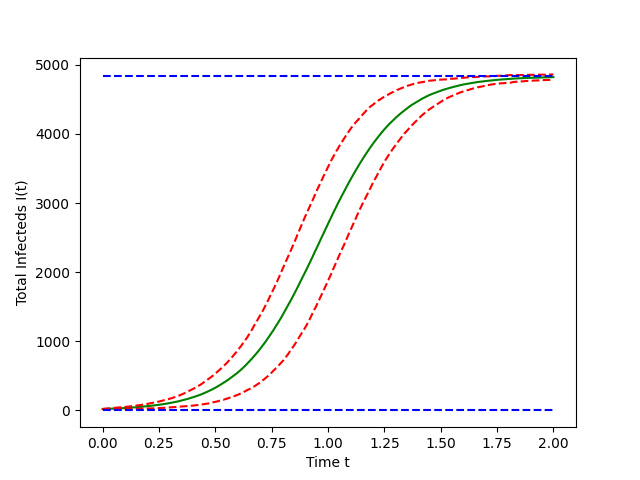
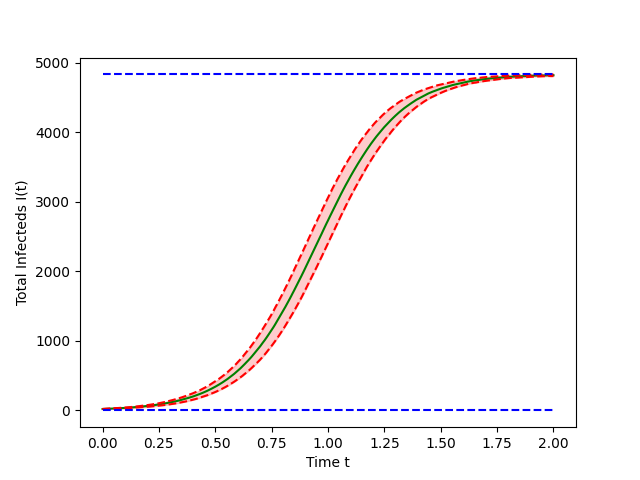
Add degrees, add conclusion

diff --git a/report/templated_draft.tex b/report/templated_draft.tex
@@ -260,7 +260,7 @@ Throughout human history, disease has been a constant threat to health and happi
 
 The original work in the field of mathematical disease modelling was done in 1927, by Kermack and McKendrick \citep{kermackContributionMathematicalTheory1927}, where they introduced the concept of a compartmental model, in which the population of concern is split into several compartments. They primarily examined what became known as the SIR model, where individuals are considered to either be Susceptible, Infected, or Removed (either through recovery or death). In this model, only Susceptible people can be infected, and only Infected people can be removed - there is also no movement back into the Susceptible compartment. Once an individual has had the disease, they are either dead, or immune for life. This model is applicable to a large number of diseases that were of great concern at the time, such as measels, polio, or diptheria. However, in the present day UK, where most people are vaccinated against these diseases \citep{ukhsaVaccinationCoverageStatistics}, we are more interested in diseases from which we only develop temporary immunity, or those from which no immunity is gained at all. In this project, we focus on the related, but more simple SIS model, where individuals are either Susceptible or Infected. Like in the SIR model, only Susceptible individuals can be infected, but we also allow infected individuals to recover, without immunity, and become Susceptible again. This is a good model for several common diseases against which no immunity is developed, such as Gonorrhea or Syphillis. This model is also a good starting point to develop the machinery for a more complex future model, as it can easily be extended to have more compartments, or to introduce the effects of social distancing and other measures, as in \citet{croccoloSpreadingInfectionsRandom2020}.
 
-Another departure we make from the original work of Kermack and McKendrick is to consider discrete populations, where they considered the populations to be continuous. This means we can no longer use the machinery of ODEs that they utilise, and so we must choose another method of modelling this discrete process. A natural way to do this is by treating the individuals in different compartments as different chemical species, and the transitions between compartments as chemical reactions. This allows us to leverage a large amount of machinery developed for these kinds of discrete stochastic processes.
+Another departure we make from the original work of Kermack and McKendrick is to consider discrete populations, where they considered the populations to be continuous. This means we can no longer use the machinery of ODEs that they utilise, and so we must choose another method of modelling this discrete process. A natural way to do this is by treating the individuals in different compartments as different chemical species, and the transitions between compartments as chemical reactions. This allows us to leverage a large amount of machinery developed for these kinds of discrete stochastic processes, the vast majority of which is described in \citep{erbanStochasticModellingReaction2019}.
 
 We first focus on a model with no spatial variation, this is equivalent to thinking of our individuals (which we are treating as chemicals) as being well-mixed, and so we refer to this as the well-mixed model. We then examine two ways of introducing spatial structure using networks. First, we analyse the system on simple graphs, with a relatively large population on each node. This is known as the metapopulation model, and each of the nodes can be thought of as representing a town or village in this model, which are themselves well-mixed. Second, we look at several models for networks of individuals, where each node of the network represents an individual person. This is referred to as the individual model. Finally, we look at the behaviour of the model on a real social network, utilising the SNAP dataset \citep{snapnets} to simulate the individual model on a network of Facebok users and their friends.
 
@@ -336,6 +336,8 @@ We can also perform a linear stability analysis to predict the expected behaviou
 	\caption{A plot of the mean $\pm 1$ standard deviation of $20$ realisations of the Gillespie SSA, with parameters $k_I = 0.002$, $k_S = 0.1$, $N = 500$. The dotted blue line is the deterministic solution to the mass action approximation. We see that it is higher than the simulation average, as some of the simulations hit the extinction solution, and stay at $0$, lowering the average.}
 	\label{fig:SISmix}
 \end{figure}
+
+To gain more accurate insight into the true behaviour of our discrete model, rather than focusing on the continuous approximation given to us by the principle of mass-action, we leverage the tools of the Chemical Master Equation (CME).
 
 \section{The Chemical Master Equation and Probability Generating Function}
 
@@ -487,7 +489,7 @@ We can solve this system numerically, using VisualPDE \citep{walkerVisualPDERapi
 	\mathrm{Var} [I(t)] = \left( \pdd {} {x} G(x, t) + \pd {} {x} G(x, t) - \left( \pd {} {x} G(x, t) \right)^2 \right) \Big|_{x = 1}.
 \end{equation}
 
-We in fact see in the numerical solution, tracking these expressions over time, that the mean rises as we would expect, before levelling off. We also see the variance drop rapidly to a very low value, showing that we expect the solutions to rapidly converge towards an equilibrium. This is an excellent result, as we do not get the blowing up that we had when trying to use the moment closure earlier.
+We in fact see in the numerical solution, tracking these expressions over time, that the mean rises as we would expect, before levelling off. We also see the variance drop rapidly to a very low value, showing that we expect the solutions to rapidly converge towards an equilibrium. This is an excellent result, as we do not get the blowing up that we had when trying to use the moment closure earlier. However, it tells us little about the eventual long-term behaviour of the system. For that, we examine the stationary distribution.
 
 \section{The Stationary Distribution}
 
@@ -521,6 +523,8 @@ We can also consider the recovery-free (SI) model, by setting $k_S - 0$. This gi
 \end{equation}
 
 Now setting $n = 0$ gives $\phi(0) = 0$, as we would expect. In fact, it follows that all $\phi(n) = 0$, for all $n < N$. For $n = N$, the steady-state CME gives us no information, but again using $\sum_{k = 0}^N \phi(k) = 1$, we see that $\phi(N) = 1$. Again this makes sense, as with no recovery, we expect the whole population to become infected.
+
+These results make sense, however they do not align with what we see in simulations, as our simulations always stop in finite time, where the chance of a given realisation reaching extinction is generally low. In order to better analyse the system and find an approximation of a finite-time stationary distribution, we leverage the tools of Stochastic Differential Equations.
 
 \section{Stochastic Differential Equation Approach, and Finite-Time Stationary Distribution Approximation}
 
@@ -1036,7 +1040,7 @@ We now simulate the different networks in the regime where extinction is stable,
 		\caption{Supercritical $S_4$}
 		\label{fig:SISmetaS4sup}
 	\end{subfigure}
-	\caption{Means with $\pm 3$ standard deviations of $100$ simulations of the metapopulation SIS model on various graphs, with both supercritical and subcritical parameter values. As expected, in all of the supercritical simulations, the trajectories tend to an endemic equilibrium. In the subcritical cases, the trajectories all go to the extinction equilibrium, as we would again expect. The blue dotted lines, where shown, give the endemic and extinction equilibria, the endemic equilibria calculated as the homogeneous equilibria given by \ref{metaHomEq}. This shows good agreement between the simulation mean and the prediceted homogeneous equilibrium. All of the supercritical scenarios show a logistic-like growth, though the rates differ between the various graph structures.}
+	\caption{Means with $\pm 1$ standard deviation of $80$ simulations of the metapopulation SIS model on various graphs, with both supercritical and subcritical parameter values. As expected, in all of the supercritical simulations, the trajectories tend to an endemic equilibrium. In the subcritical cases, the trajectories all go to the extinction equilibrium, as we would again expect. The blue dotted lines, where shown, give the endemic and extinction equilibria, the endemic equilibria calculated as the homogeneous equilibria given by \ref{metaHomEq}. This shows good agreement between the simulation mean and the predicted homogeneous equilibrium. All of the supercritical scenarios show a logistic-like growth, though the rates differ between the various graph structures.}
 	\label{figs:SISmeta}
 \end{figure}
 
@@ -1182,7 +1186,7 @@ We now simulate the infection on a variety of graph structures. We begin with a 
 		\caption{$\mathrm{Barbell}(249, 2)$}
 		\label{fig:SISindvbar}
 	\end{subfigure}
-	\caption{A collection of simulations on various simple and composite graphs. \ref{fig:SISindvcycle} shows the mean $\pm 1$ standard deviation of $20$ realisations on the cycle graph with $500$ nodes, $C_{500}$. This demonstrates how the graph structure significantly impacts the spreading behaviour, as there is a clear linear trend, due to the structure preventing most nodes from being exposed to the disease for a long period of time. This also results in the disease taking much longer to spread. The parameters used were $k_I = 0.7$, $k_S = 0.1$. This is also of note, as for significantly smaller ratios of $k_I$ to $k_S$, the disease became extinct extremely rapidly. \ref{fig:SISindvtadpole} shows the mean $\pm 3$ standard deviations $20$ realisations on the $\mathrm{tadpole}(300, 200)$ graph, the graph of $C_{300}$ connected to $P_{200}$, using the same parameters. This again demonstrates a generally linear growth. However, the growth here is faster. This is because, for the majority of the time, the growth is effectively along three branches, rather than effectively along two. \ref{fig:SISindvloll} shows the mean $\pm 3$ standard deviations of $20$ realisations on the lollipop graph, made up of the complete graph $K_{300}$ connected to the path graph $P_{200}$, using the same parameters again. This shows a very sharp rise at the start, as the high rate of infection causes the disease to rapidly spread through the highly connected portion of the graph. However, the growth slows down massively as the disease spreads roughly linearly along the path section of the graph. \ref{fig:SISindvbar} demonstrates this behaviour in a more extreme case, showing $20$ realisations on the Barbell graph made up of two copies of the complete graph $k_{249}$ connected by the path graph $P_{2}$. The disease rapidly spreads through the large connected populations, but takes much longer to spread along the path between them. However, once the disease reaches the second connected population, it again spreads extremely rapidly, giving this step effect. The parameters used for this graph were $k_I = 0.7$, $k_S = 0.1$. Here, traces are shown, as they are more informative than the mean and standard deviations, and show the interesting behaviour of very different times to jump from one highly connected portion of the graph to the other.}
+	\caption{A collection of simulations on various simple and composite graphs. \ref{fig:SISindvcycle} shows the mean $\pm 1$ standard deviation of $20$ realisations on the cycle graph with $500$ nodes, $C_{500}$. The parameters used were $k_I = 0.7$, $k_S = 0.1$. \ref{fig:SISindvtadpole} shows the mean $\pm 1$ standard deviation of $20$ realisations on the $\mathrm{tadpole}(300, 200)$ graph, the graph of $C_{300}$ connected to $P_{200}$, using the same parameters. \ref{fig:SISindvloll} shows the mean $\pm 1$ standard deviation of $20$ realisations on the lollipop graph, made up of the complete graph $K_{300}$ connected to the path graph $P_{200}$, using the same parameters again. The rapid rise at the start is the disease spreading through the complete subgraph, as we would expect. \ref{fig:SISindvbar} demonstrates this behaviour in a more extreme case, showing $20$ realisations on the Barbell graph made up of two copies of the complete graph $k_{249}$ connected by the path graph $P_{2}$. The parameters used for this graph were $k_I = 0.7$, $k_S = 0.1$. Here, traces are shown, as they are more informative than the mean and standard deviations, and show the interesting behaviour of very different times to jump from one highly connected portion of the graph to the other between different realisations.}
 	\label{figs:SISindvsimp}
 \end{figure}
 
@@ -1348,7 +1352,37 @@ These different kinds of random graphs exhibit a variety of interesting properti
 
 \section{The Facebook Network}
 
-We finally move onto analysing the disease spread on a real social network, the Facebook network from the SNAP dataset \citet{snapnets}. This is a network of $4039$ Facebook users, and the connections between them. The average clustering coefficient of this network is $0.6055$, and the degree distribution is shown in [[FIGURE HERE]], and [[COMPARE TO OTHERS]]. Running the simulation for a variety of parameter values yields the following plots.
+We finally move onto analysing the disease spread on a real social network, the Facebook network from the SNAP dataset \citet{snapnets}. This is a network of $4039$ Facebook users, and the connections between them. The degree distribution is shown alongside the other random network models examined previously in \ref{figs:degcomp}. We clearly see the previously stated power-law degree distribution, and how well the different network models emulate this. As the network is extremely large, it is very difficult to do any further advanced analysis. Running the simulation for a variety of parameter values yields the plots \ref{figs:SISindvFB}.
+
+\begin{figure}
+        \centering
+        \begin{subfigure}[t]{0.45\textwidth}
+                \centering
+                \includegraphics[width=\textwidth]{figs/degER.png}
+                \caption{Erdos-Renyi}
+                \label{fig:degER}
+        \end{subfigure}
+        \begin{subfigure}[t]{0.45\textwidth}
+                \centering
+                \includegraphics[width=\textwidth]{figs/degBA.png}
+                \caption{Barabasi-Albert}
+                \label{fig:degBA}
+        \end{subfigure}
+        \begin{subfigure}[b]{0.45\textwidth}
+                \centering
+                \includegraphics[width=\textwidth]{figs/degWS.png}
+                \caption{Watts-Strogatz}
+                \label{fig:degWS}
+        \end{subfigure}
+        \begin{subfigure}[b]{0.45\textwidth}
+                \centering
+                \includegraphics[width=\textwidth]{figs/degFB.png}
+                \caption{Facebook}
+                \label{fig:degFB}
+        \end{subfigure}
+        \caption{These figures show the degree distributions of the three random graph models, alongside the degree distribution of the facebook network from the SNAP dataset. We can clearly see that the Erdos-Renyi and Watts-Strogatz network models do not give a power-law distribution, instead giving something more akin to a normal distribution for the degrees of the nodes. The Barabasi-Albert model does clearly give a power law distribution, as it is designed to. We can also clearly see that the real-life social network of the facebook graph shows a degree distribution which approximately follows a power law.}
+        \label{figs:degcomp}
+\end{figure}
 
 \begin{figure}[h]
 	\centering
@@ -1383,6 +1417,12 @@ We finally move onto analysing the disease spread on a real social network, the 
 We again see the behaviour we have learnt to expect from our analysis and previous simulations, where as we increase the value of $k_S$, the system experiences a form of criticality, where below some critical value, the number of infected individuals tends to some endmic equilibrium, for values around that critical value they either hit the extinction equilibrium, or remain low, and for values greater than the critical value, the simulations invariably hit the extinction equilibrium.
 
 We also see that all of the other random network models seem to do a poor job of approximating the behaviour of the model on a real social network. Somewhat surprisingly, we find that a critical percolation network is actually the most similar in behaviour to the facebook network. We also once again see that the structure of the networks has a large impact on the exact dynamics of the disease spread, particularly affecting the rate at which the disease propogates across the graph. However, it is apparent that the greatest impact on the overall long-term behaviour is from the exact parameters used, specifically the ratio between infection and recovery rates. We see that in all cases, if the recovery rate is sufficiently high relative to the infection rate, the disease will invariably become extinct. This may be useful to inform public health policy, as it shows that the most effective means to reduce the impact of an epidemic is to lower the rate of infection (for example, through better hand washing and sanitation), or to increase the rate of recovery (by developing better treatments, or screening greater numbers of people to be able to start treatment earlier).
+
+This model of the spread of a disease between individuals grants us useful insight into how a disease may spread through a small interconnected population, such as within a town, village, school, or workplace. We see that most of the models of social networks actually do a relatively poor job of replicating the behaviour of the disease on a real social network, and we in fact see that the expected logistic curve of a well-mixed model proves inaccurate at this scale. This is useful in any future attempts to build more complex models, including metapopulation models, as we see that the spread of the disease within the nodes of such a model must be given by more complex behaviour than the usual logistic growth that is assumed.
+
+\chapter{Conclusion}
+
+In this report, we began by examining a very simple chemical model of disease with no spatial component, to see what factors affected the behaviour of the disease spread, and to observe the stable points of the model. In doing so we devloped a series of useful tools, including a Stochastic Differential Equation (SDE) approximation of the system. We then expanded this to a metapopulation model, introducing spatial variation through the use of networks. This allowed us to model the spread of a disease between communities, and to observe how the level of connection between communities affected the rate of spread. From this we have gained useful insight into how public health policy can seek to lessen the spread and impact of an epidemic by reducing interconnection between communities, for example by social distancing, or reducing transmission rates between otherwise separate communities through other means (such as mask wearing, or restricting contact through other means). We also examined the stable equilibria of a continuous approximation on these networks, and showed there exists a critical threshold above which the epidemic will tend to an endemic stable point, and below which it will rapidly die off to extinction. We then looked at a model of disease spread on more complex networks, intended to simulate small communities, to see how the disease spreads at these scales. We examined some simple networks, some common models of random networks often used to model social networks, and a real-life social network of facebook users. We found that all of the common random network models struggled to adequately capture the behaviour of the epidemic on a real social network, and examined the ways in which they differed. We also observed the effect of network criticality, in the case of the percolation network model, on the tipping points for the epidemic. On every network we examined, we found that there could be two major regimes of the disease model. In one, the disease rapidly dies out and becomes extinct. In the other, the disease spreads throughout the population until an endemic stable point is reached. The greatest impact on this was always the ratio of recovery rate to infection rate, showing us that the most effective way to reduce the impact of an epidemic remains to either reduce infectivity (through sanitation, hand washing, mask wearing, etc), or to promote faster recovery (through effective treatment, ensuring adequate nutrition, early identification of infection, etc). In this process, we developed a small amount of Python code which can be used to simulate a variety of disease models on networks, and which could trivially be extended to simulate more complex models, such as models with more compartments (SIR, SEIR, MSIRS etc), models with immune individuals, and models with time-evolving parameters. The code developed could even be extended to allow dynamic construction and destruction of edges on the networks, which could be used as in \citep{croccoloSpreadingInfectionsRandom2020} to examine the effect of lockdowns or other similar public health measures.
 
 \bibliography{mybib.bib}
 

diff --git a/graphs_python/SIS_metapop_disc.py b/graphs_python/SIS_metapop_disc.py
@@ -165,65 +165,66 @@ def draw_graph(G, I, N, colours=plt.cm.viridis):
                      vmin=0, vmax=1, cmap=plt.cm.plasma)
     plt.show()
 
+if __name__ == "__main__":
+    G = nx.cycle_graph(5)
+    Ii = np.zeros(5)
+    Ni = np.array([1000, 1000, 1000, 1000, 1000])
+    Ii[0] = 20
 
-G = nx.complete_graph(5)
-Ii = np.zeros(5)
-Ni = np.array([1000, 1000, 1000, 1000, 1000])
-Ii[0] = 20
+    iters = 80
+    END = 1.5
+    k_I = 0.002
+    k_S = 20
 
-iters = 100
-END = 2
-k_I = 0.002
-k_S = 0.2
+    tcollect = []
+    Icollect = []
+    conns = []
+    processes = []
 
-tcollect = []
-Icollect = []
-conns = []
-processes = []
+    for i in range(iters):
+        par_conn, child_conn = Pipe()
+        process = Process(target=mult_Gillespie, args=(
+            G, Ii, Ni, k_I, k_S, child_conn, END, 0.1, False,))
+        processes.append(process)
+        conns.append(par_conn)
+        process.start()
 
-for i in range(iters):
-    par_conn, child_conn = Pipe()
-    process = Process(target=mult_Gillespie, args=(
-        G, Ii, Ni, k_I, k_S, child_conn, END, 0.1, False,))
-    processes.append(process)
-    conns.append(par_conn)
-    process.start()
+    for conn in conns:
+        ts, Is = conn.recv()
+        tcollect.append(ts)
+        Icollect.append(Is)
 
-for conn in conns:
-    ts, Is = conn.recv()
-    tcollect.append(ts)
-    Icollect.append(Is)
+    for proc in processes:
+        proc.join()
 
-for proc in processes:
-    proc.join()
-
-# for i in range(iters):
-#     plt.plot(tcollect[i], Icollect[i], '--')
-
-
-# GRID
-tgrid = np.arange(0, END, END/(np.sum(Ni)*4))
-Igrid = []
-for i in range(iters):
-    Igrid.append(griddify(np.array(tcollect[i]), tgrid, np.array(Icollect[i])))
-
-Igrida = np.array(Igrid)
-avs = np.sum(Igrida, 0)/iters
-sds = np.sqrt(np.sum(Igrida**2, 0)/iters - avs**2)
-
-plt.plot(tgrid, avs, "g")
-plt.plot(tgrid, avs + 3*sds, "--r")
-plt.plot(tgrid, avs - 3*sds, "--r")
+    # for i in range(iters):
+    #     plt.plot(tcollect[i], Icollect[i], '--')
 
 
-linet = [0, END]
-extinct = [0, 0]
-endemic = 5000*(1 - k_S/(k_I * 5000))
-lineI = [endemic, endemic]
+    # GRID
+    tgrid = np.arange(0, END, END/(np.sum(Ni)*4))
+    Igrid = []
+    for i in range(iters):
+        Igrid.append(griddify(np.array(tcollect[i]), tgrid, np.array(Icollect[i])))
 
-plt.plot(linet, lineI, '--b')
-plt.plot(linet, extinct, '--b')
+    Igrida = np.array(Igrid)
+    avs = np.sum(Igrida, 0)/iters
+    sds = np.sqrt(np.sum(Igrida**2, 0)/iters - avs**2)
 
-plt.xlabel("Time t")
-plt.ylabel("Total Infecteds I(t)")
-plt.show()
+    plt.plot(tgrid, avs, "g")
+    plt.plot(tgrid, avs + sds, "--r")
+    plt.plot(tgrid, avs - sds, "--r")
+    plt.fill_between(tgrid, avs - sds, avs + sds, color=(1, 0, 0, 0.2))
+
+    # Equilibria plotting
+    # linet = [0, END]
+    # extinct = [0, 0]
+    # endemic = 5000*(1 - k_S/(k_I * 3000))
+    # lineI = [endemic, endemic]
+
+    # plt.plot(linet, lineI, '--b')
+    # plt.plot(linet, extinct, '--b')
+
+    plt.xlabel("Time t")
+    plt.ylabel("Total Infecteds I(t)")
+    plt.show()

diff --git a/graphs_python/graph_investigation.py b/graphs_python/graph_investigation.py
@@ -1,0 +1,11 @@
+import networkx as nx
+from matplotlib import pyplot as plt
+import pandas as pd
+import numpy as np
+from SIS_individuals import make_perc_graph, make_fb_graph
+
+
+G = make_fb_graph()
+degree_sequence = sorted((d for n, d in G.degree()), reverse=True)
+plt.bar(*np.unique(degree_sequence, return_counts=True))
+plt.show()
